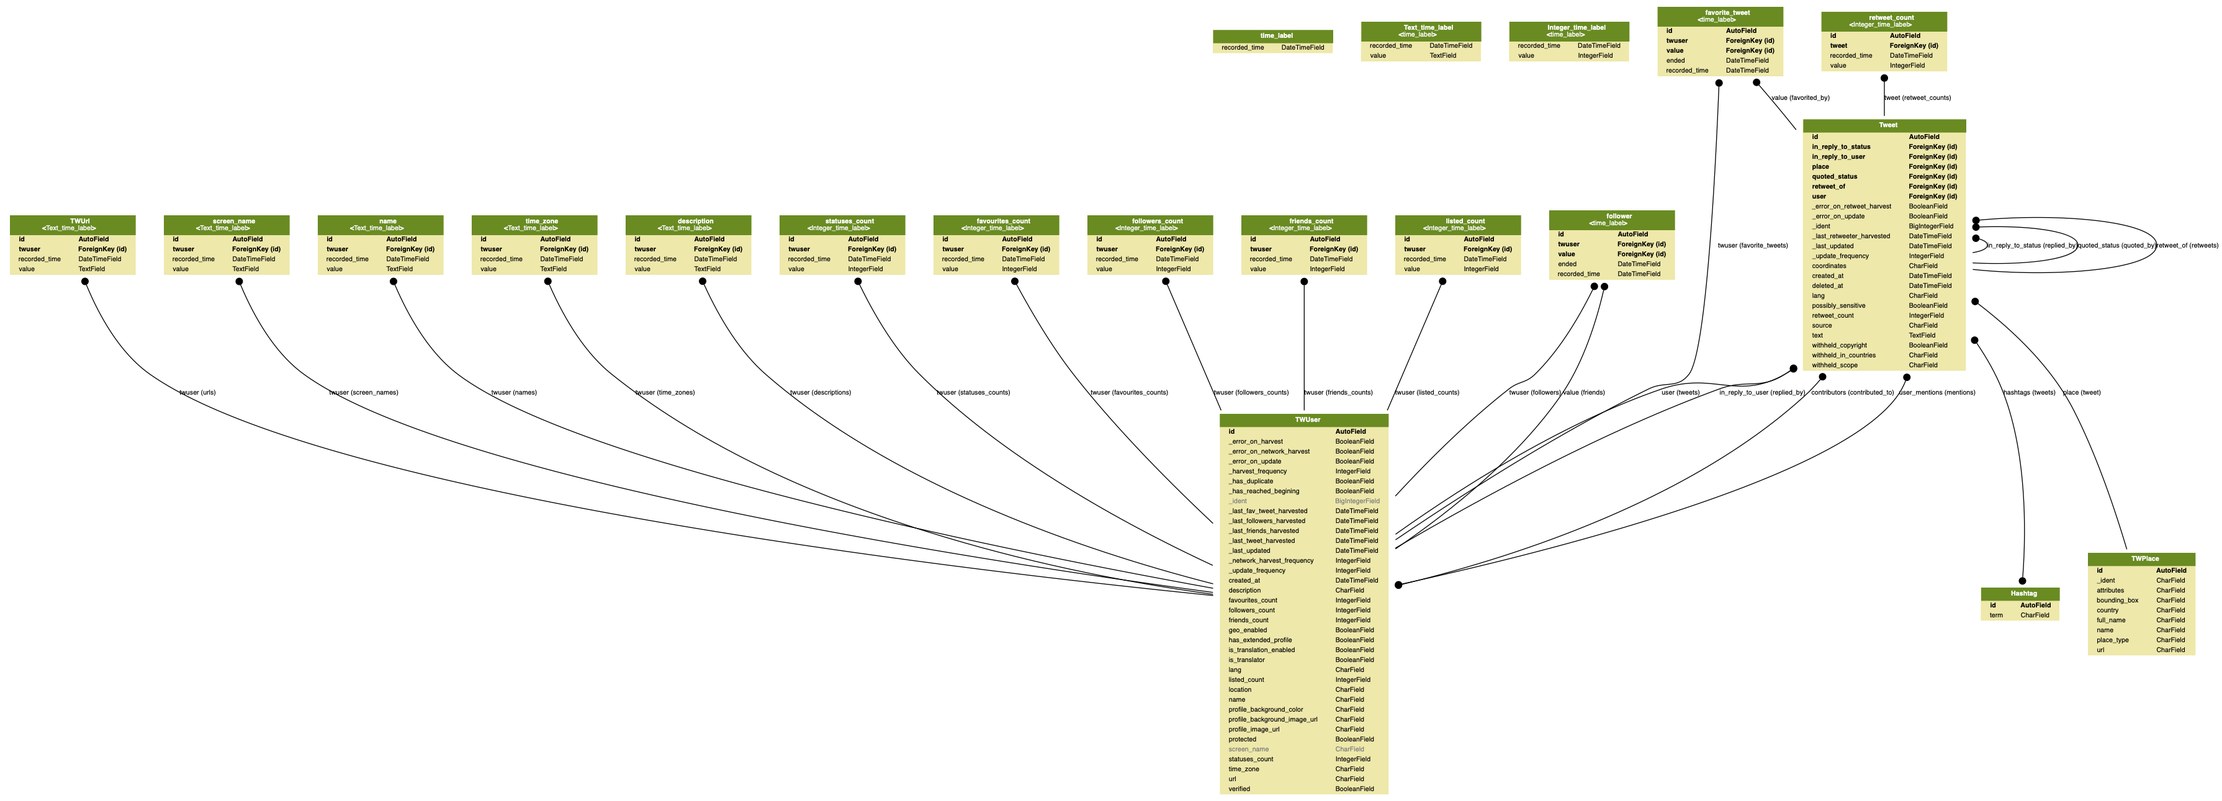
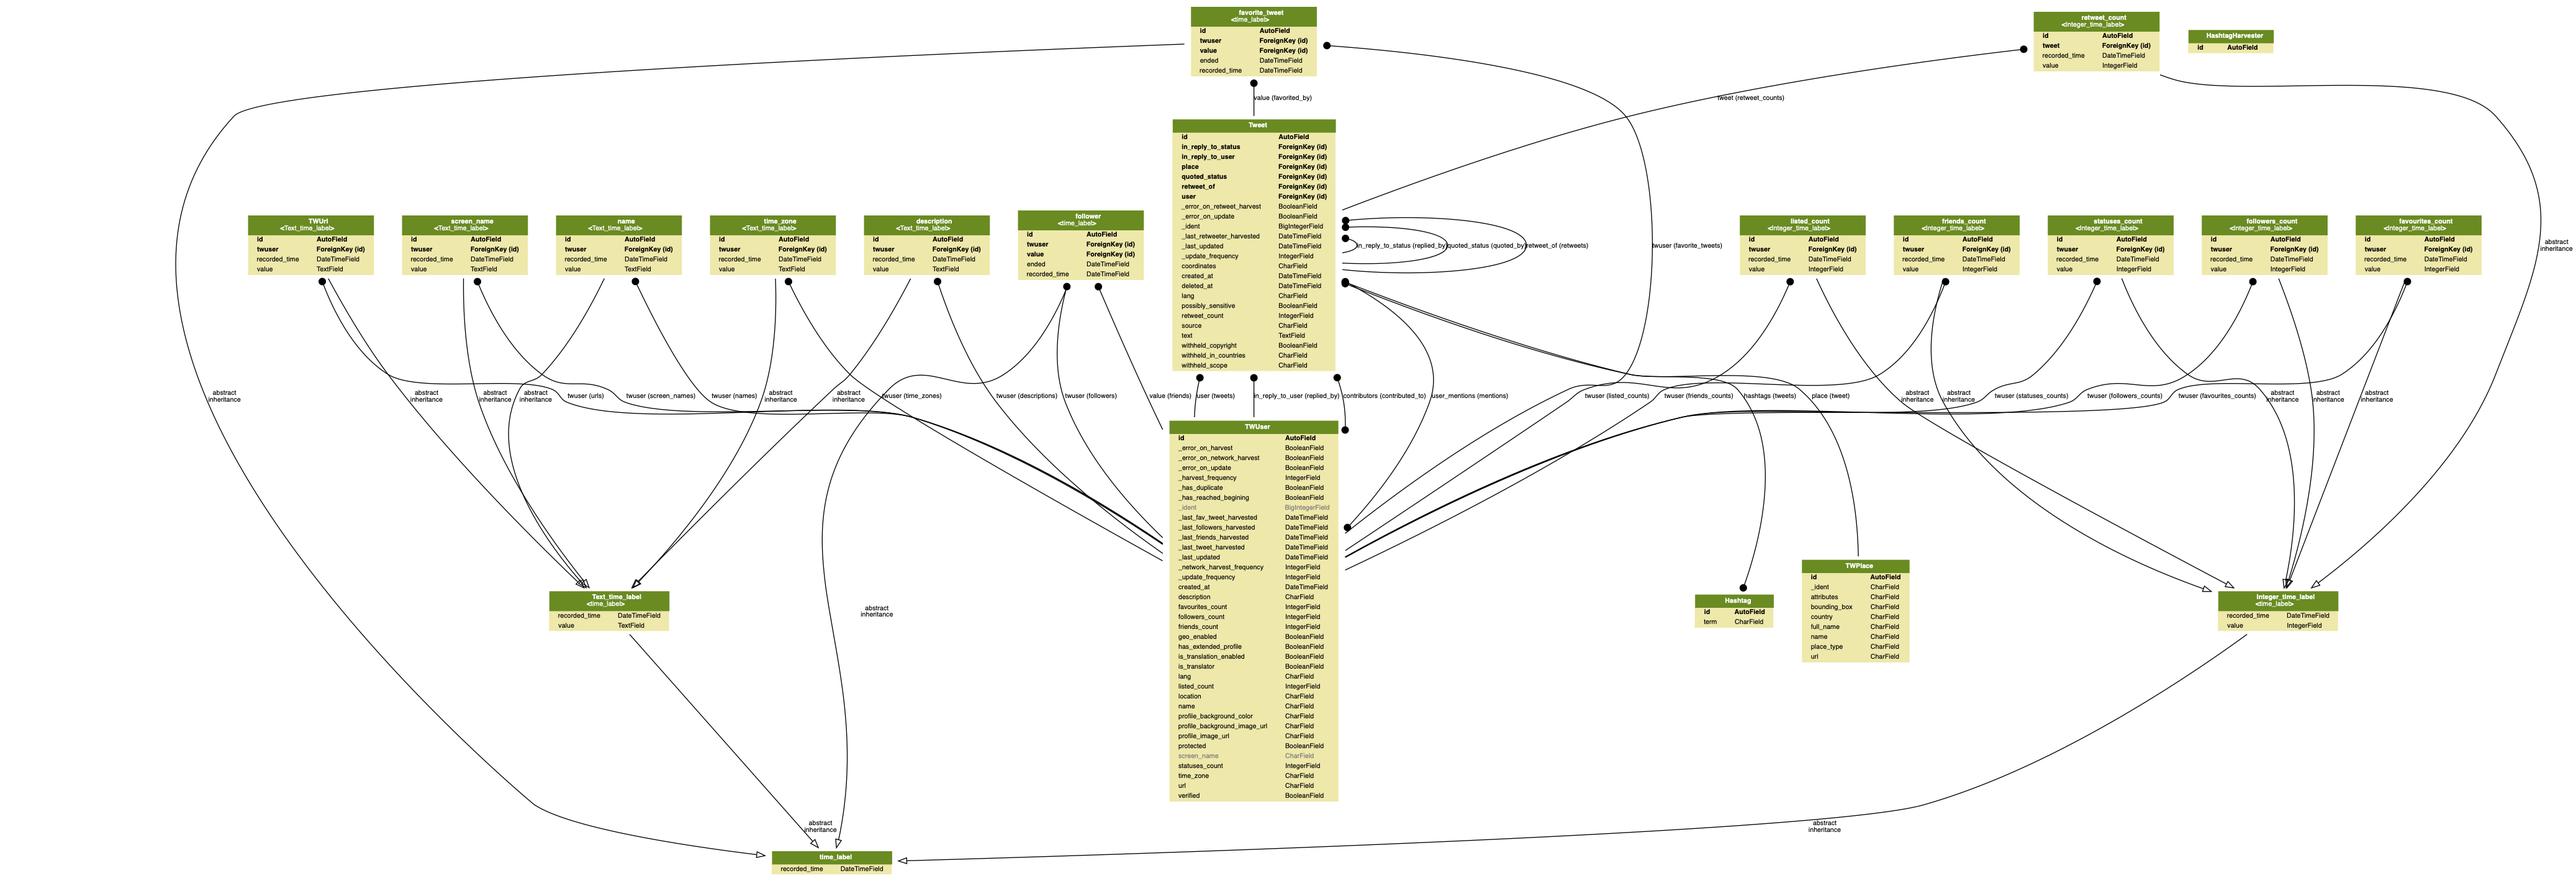
Trying to add back the model "HashtagHarvester" to Twitter, to migrate the DB properly.

diff --git a/SocialNetworkHarvester/Twitter/migrations/0006_hashtagharvester.py b/SocialNetworkHarvester/Twitter/migrations/0006_hashtagharvester.py
@@ -1,0 +1,19 @@
+# Generated by Django 2.1.1 on 2018-11-02 03:09
+
+from django.db import migrations, models
+
+
+class Migration(migrations.Migration):
+
+    dependencies = [
+        ('Twitter', '0005_tweet__update_frequency'),
+    ]
+
+    operations = [
+        migrations.CreateModel(
+            name='HashtagHarvester',
+            fields=[
+                ('id', models.AutoField(auto_created=True, primary_key=True, serialize=False, verbose_name='ID')),
+            ],
+        ),
+    ]

diff --git a/SocialNetworkHarvester/Twitter/models/__init__.py b/SocialNetworkHarvester/Twitter/models/__init__.py
@@ -1,3 +1,5 @@
+from django.db import models
+
 from .Hashtag import Hashtag
 from .TWPlace import TWPlace
 from .TWUser import TWUser, TWUrl
@@ -41,3 +43,7 @@ def get_twitter_model_by_name(model_name):
     if model_name not in dict.keys():
         raise Exception('Invalid class name: {}'.format(model_name))
     return dict[model_name]
+
+
+class HashtagHarvester(models.Model):
+    pass
